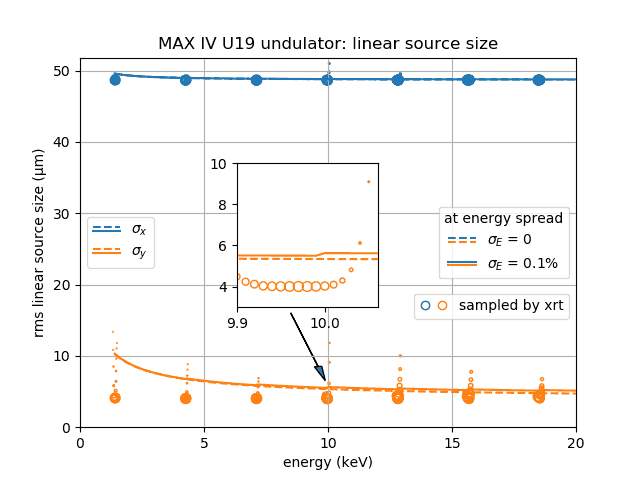
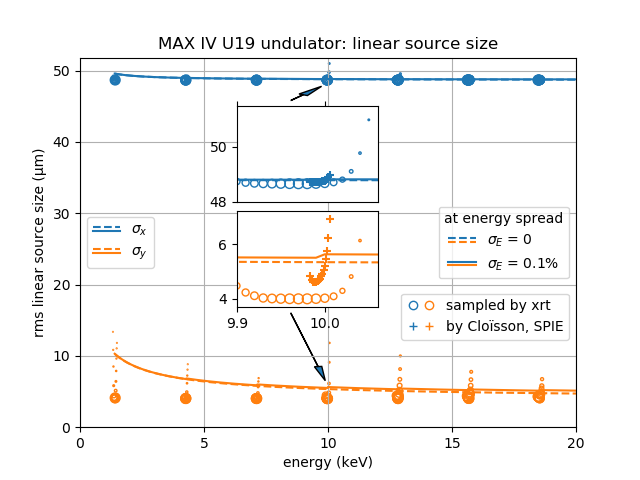
comparison with old detuned undulator results
by R. Coïsson, Opt. Eng. **27** (1988) 250–2.

diff --git a/xrt/backends/raycing/sources.py b/xrt/backends/raycing/sources.py
@@ -213,7 +213,7 @@ application example :ref:`here <example-undulator-sizes>`.
    Accelerator School: Synchrotron Radiation and Free Electron Lasers,
    Grenoble, France, 22-27 Apr 1996: proceedings (CERN. Geneva, 1998) 129-190.
 
-.. [TanakaKitamura] Tanaka and Kitamura, Universal function for the
+.. [TanakaKitamura] T. Tanaka and H. Kitamura, Universal function for the
    brilliance of undulator radiation considering the energy spread effect,
    J. Synchrotron Rad. **16** (2009) 380–6.
 
@@ -545,8 +545,17 @@ maximum at each respective harmonic. It sharply decreases at the higher energy
 end of a harmonic and has a long tail at the lower energy end, in accordance
 with the above examples.
 
+The effect of energy detuning from the nominal undulator harmonic energy is
+compared to the results by Cloïsson [Cloïsson]_ (cross signs in the figures
+below). His effect of detuning has a comparable amplitude. A sharper dependence
+is probably due to a smaller (and unknown) angular acceptance and a somewhat
+special definition of the beam size.
+
 .. imagezoom:: _images/undulatorLinearSize.png
 .. imagezoom:: _images/undulatorAngularSize.png
+
+.. [Cloïsson] R. Coïsson, Effective phase space widths of undulator radiation,
+   Opt. Eng. **27** (1988) 250–2.
 
 """
 __author__ = "Konstantin Klementiev", "Roman Chernikov"
